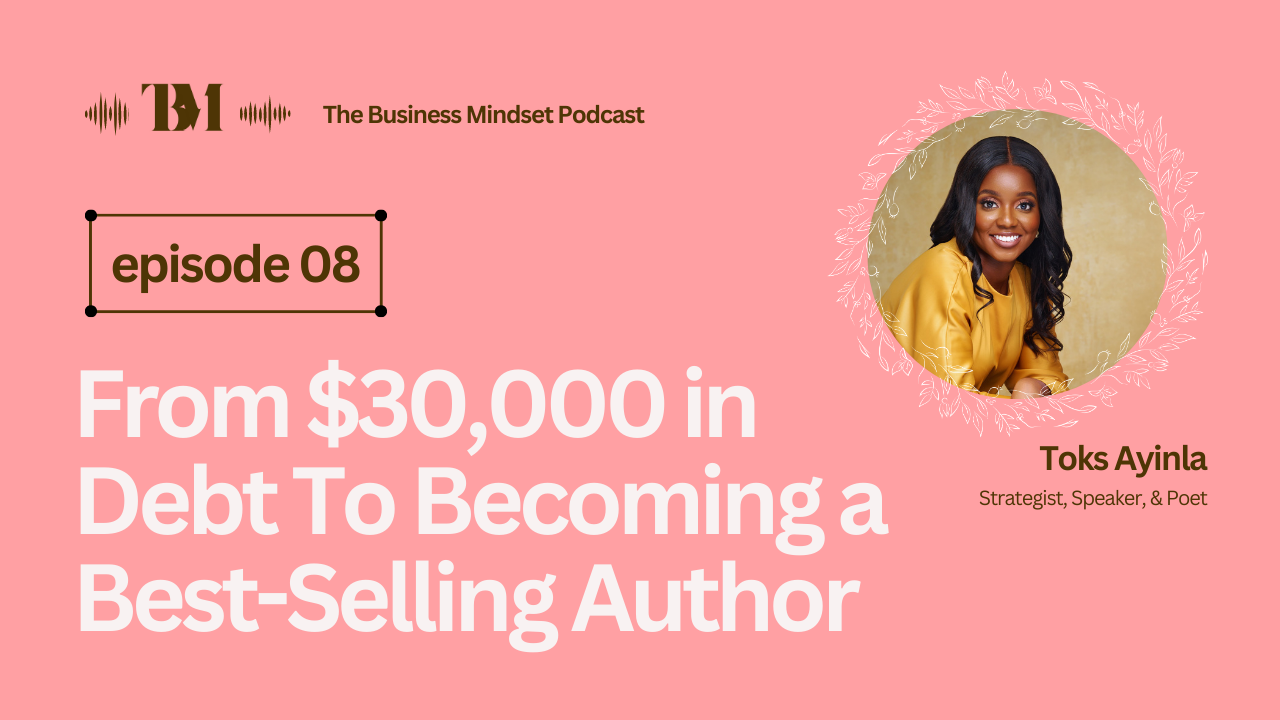
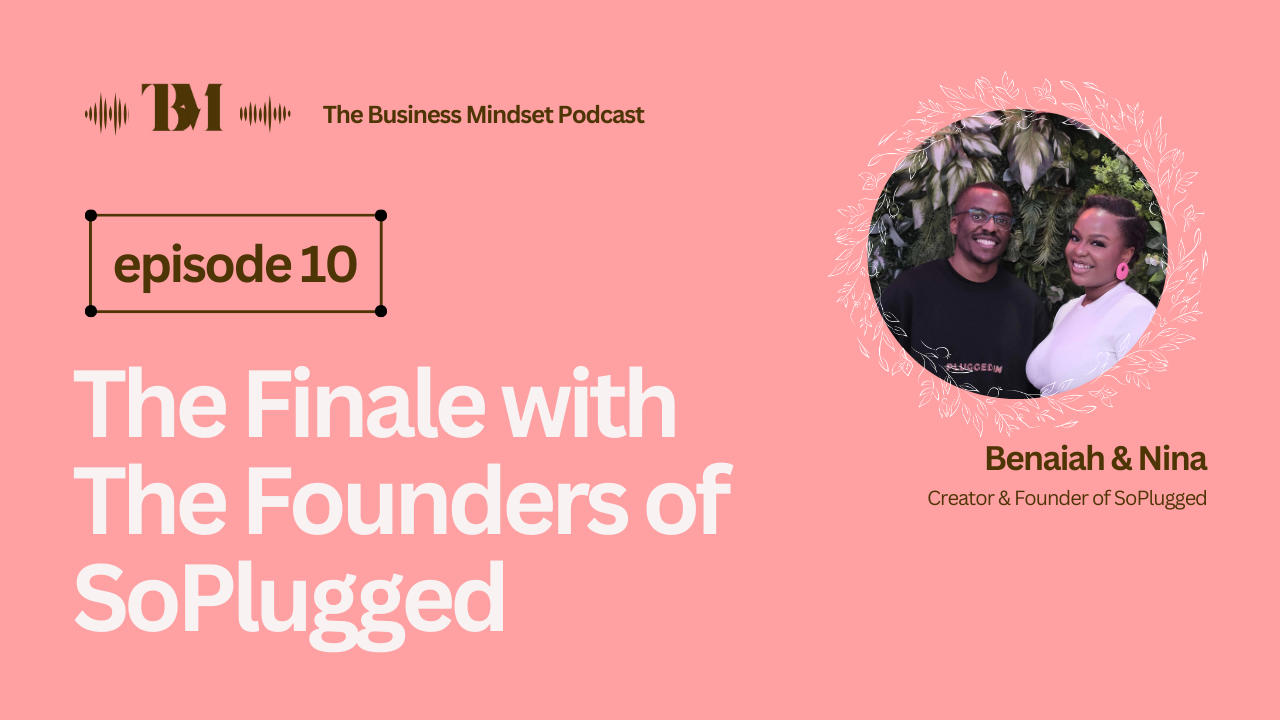
new episode and fix numbering

diff --git a/src/routes/+page.svelte b/src/routes/+page.svelte
@@ -12,7 +12,7 @@
 	import yt_thumbnail from '$lib/assets/thumbnail.png';
 
 	export let data;
-	const latestYTEpisode = 'https://www.youtube.com/watch?v=NeSAiXXAHsg';
+	const latestYTEpisode = 'https://www.youtube.com/watch?v=kBIQq1P91YY';
 
 	const socials = [
 		{ href: 'https://www.instagram.com/tbm_pod/?hl=en', img: instagram, title: 'Instagram page' },
@@ -118,6 +118,11 @@
 				{#each data.recentEpisodes as episode}
 					<Episode {episode} />
 				{/each}
+
+				<a
+					class="flex aspect-square w-full items-center justify-center rounded-xl bg-pink/10 p-4 underline transition-all duration-200 hover:bg-pink/20 hover:no-underline"
+					href="/episodes">View all episodes</a
+				>
 			</div>
 		</div>
 

diff --git a/src/lib/components/Episode.svelte b/src/lib/components/Episode.svelte
@@ -2,7 +2,7 @@
 	/** @type {import('$lib/types').Episode} */
 	export let episode;
 
-	const { guest, title, date, youtube, number, slug } = episode;
+	const { guest, title, date, youtube, number } = episode;
 </script>
 
 <a href={youtube} target="_blank" class="group flex w-full flex-col">
@@ -22,7 +22,10 @@
 		</div>
 	</div>
 
-	<p class="mb-2 mt-4 line-clamp-1 w-full font-playfair font-bold text-brown group-hover:underline">
+	<p
+		class="mb-2 mt-4 line-clamp-1 w-full font-playfair font-bold text-brown group-hover:underline"
+		{title}
+	>
 		{title}
 	</p>
 	<div class="flex flex-wrap items-start justify-between lg:gap-10">

diff --git a/src/routes/episodes/+page.server.ts b/src/routes/episodes/+page.server.ts
@@ -7,11 +7,10 @@ export async function load() {
 
 	for (const path in paths) {
 		const file = paths[path];
-		const slug = path.split('/').at(-1)?.replace('.md', '');
 
-		if (file && typeof file === 'object' && 'metadata' in file && slug) {
-			const metadata = file.metadata as Omit<Episode, 'slug'>;
-			const episode = { ...metadata, slug, content: file.default.render().html };
+		if (file && typeof file === 'object' && 'metadata' in file) {
+			const metadata = file.metadata as Episode;
+			const episode = { ...metadata, content: file.default.render().html };
 			recentEpisodes.push(episode);
 		}
 	}

diff --git a/src/routes/+page.server.ts b/src/routes/+page.server.ts
@@ -11,12 +11,12 @@ export async function load() {
 
 		if (file && typeof file === 'object' && 'metadata' in file && slug) {
 			const metadata = file.metadata as Omit<Episode, 'slug'>;
-			const episode = { ...metadata, slug: `/episodes/${slug}` };
+			const episode = { ...metadata };
 			recentEpisodes.push(episode);
 		}
 	}
 
 	return {
-		recentEpisodes: recentEpisodes.reverse()
+		recentEpisodes: recentEpisodes.reverse().slice(0, 7)
 	};
 }

diff --git a/src/lib/types.ts b/src/lib/types.ts
@@ -7,8 +7,7 @@ export type Episode = {
 		name: string;
 		photo: string;
 		instagram?: string;
-	};
-	slug: string;
+	}; 
 	date: string;
 	content: string;
 };

diff --git a/src/episodes/09-fope-nkwocha.md b/src/episodes/09-fope-nkwocha.md
@@ -1,0 +1,13 @@
+---
+number: "09"
+title: "Building a Successful Business as a Multi-Hyphenate"
+date: August 28, 2023
+youtube: https://www.youtube.com/watch?v=NeSAiXXAHsg
+guest:
+  name: Fope Nkwocha
+  title: Content creator, podcast host
+  photo: https://res.cloudinary.com/denbpv9kp/image/upload/v1693934241/ima_845aa72_ow6ufe.jpg
+  instagram: fopysthegreat
+---
+
+In our latest episode, we chat with Fope Nkwocha, a content creator, podcast host, small business marketing strategist, and ex-Google SMB lead. She talks about running multiple businesses, the challenges of niching down as a multi-hyphenate, and helping small business owners work on their businesses.

diff --git a/src/episodes/10-s1-finale.md b/src/episodes/10-s1-finale.md
@@ -1,0 +1,13 @@
+---
+number: "10"
+title: "The Finale with The Founders of SoPlugged"
+date: September 4, 2023
+youtube: https://www.youtube.com/watch?v=kBIQq1P91YY
+guest:
+  name: Nina & Benaiah Barango
+  title: Founders of SoPlugged
+  photo: https://res.cloudinary.com/denbpv9kp/image/upload/v1693935710/nina_and_ben_bgftup.jpg
+  instagram: soplugged
+---
+
+On the final episode of Season 1 of The Business Mindset Podcast, Nina and Benaiah Barango discuss their journey in building SoPlugged - an online directory connecting customers to Black-owned businesses across Canada.
